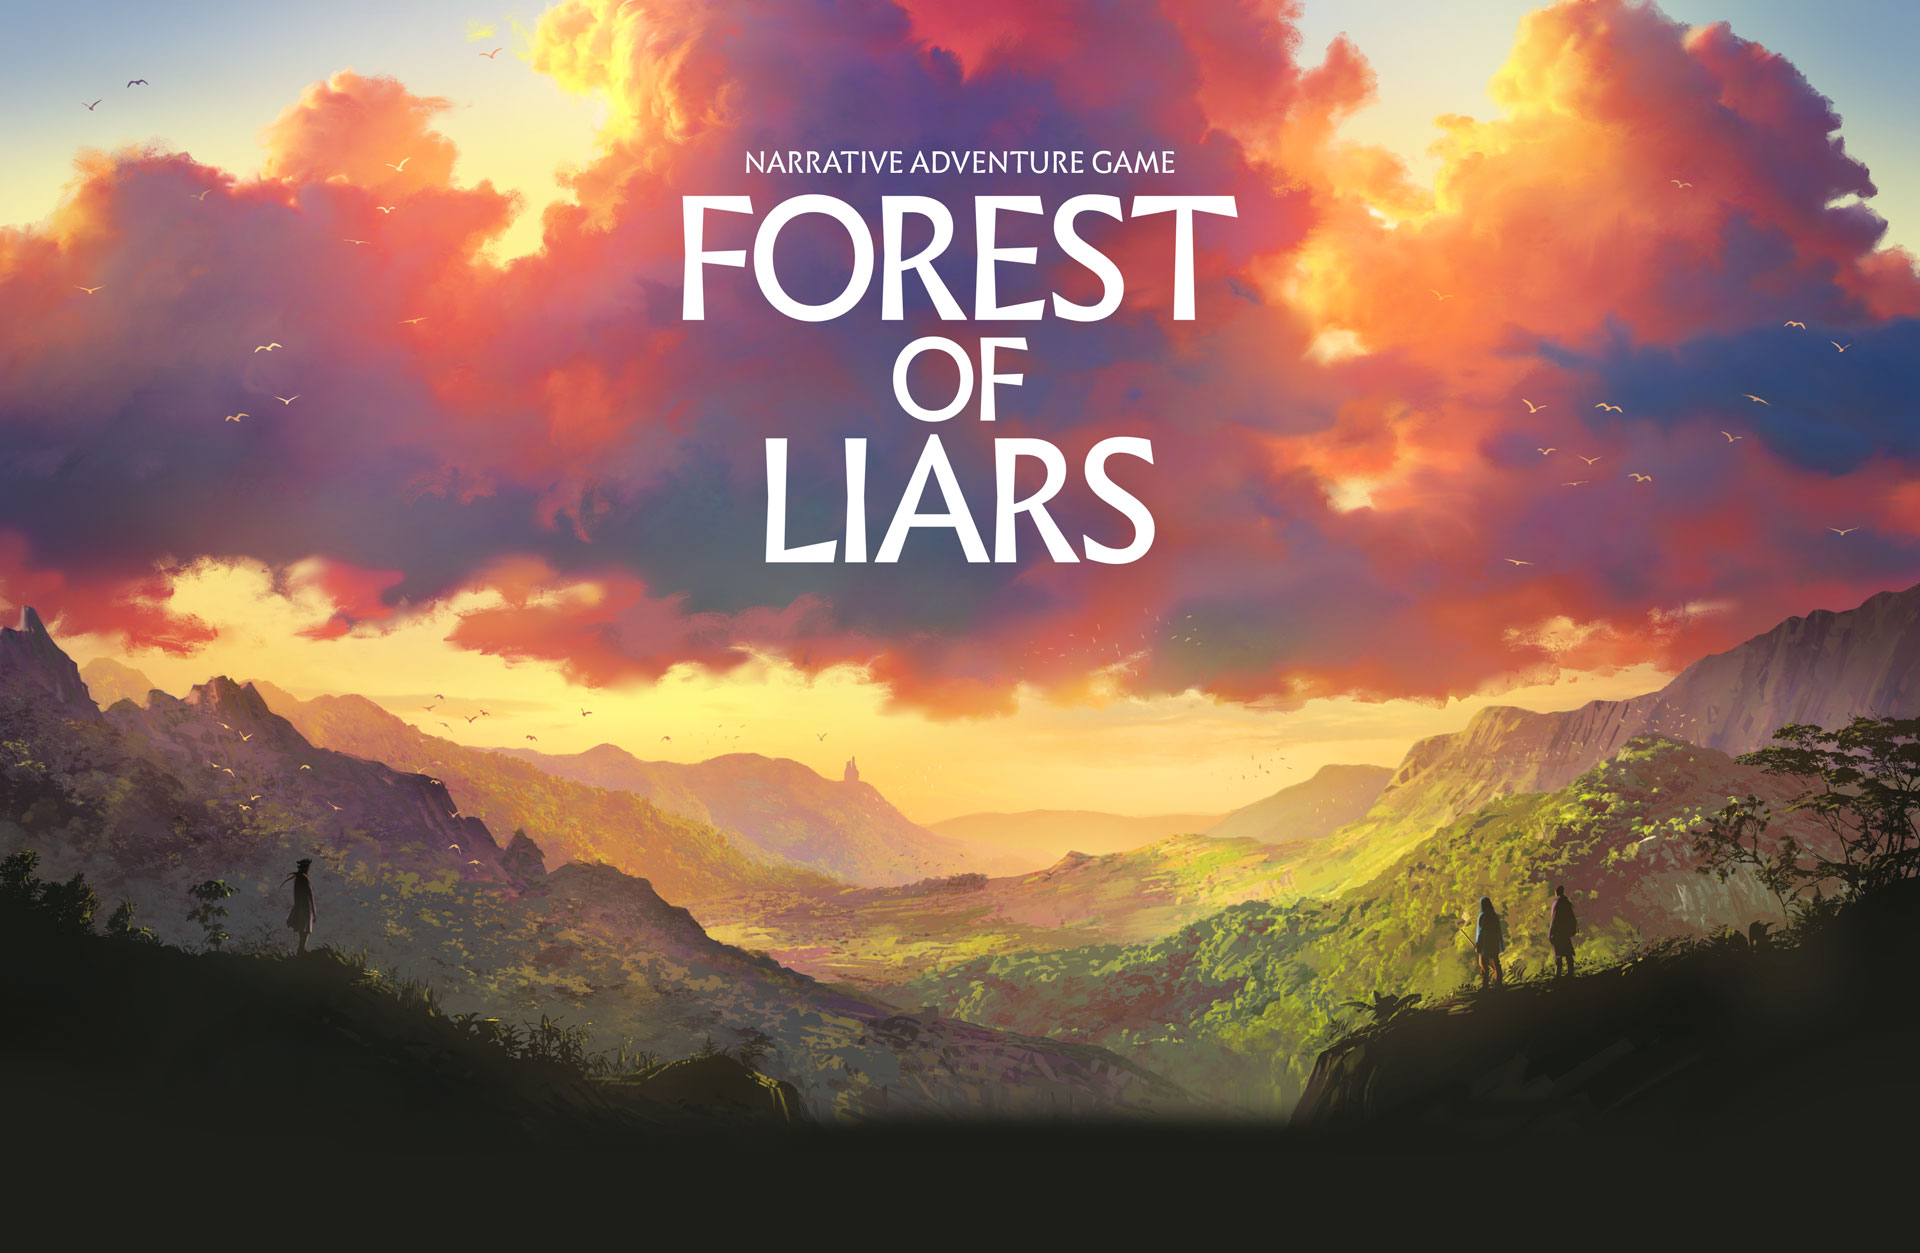
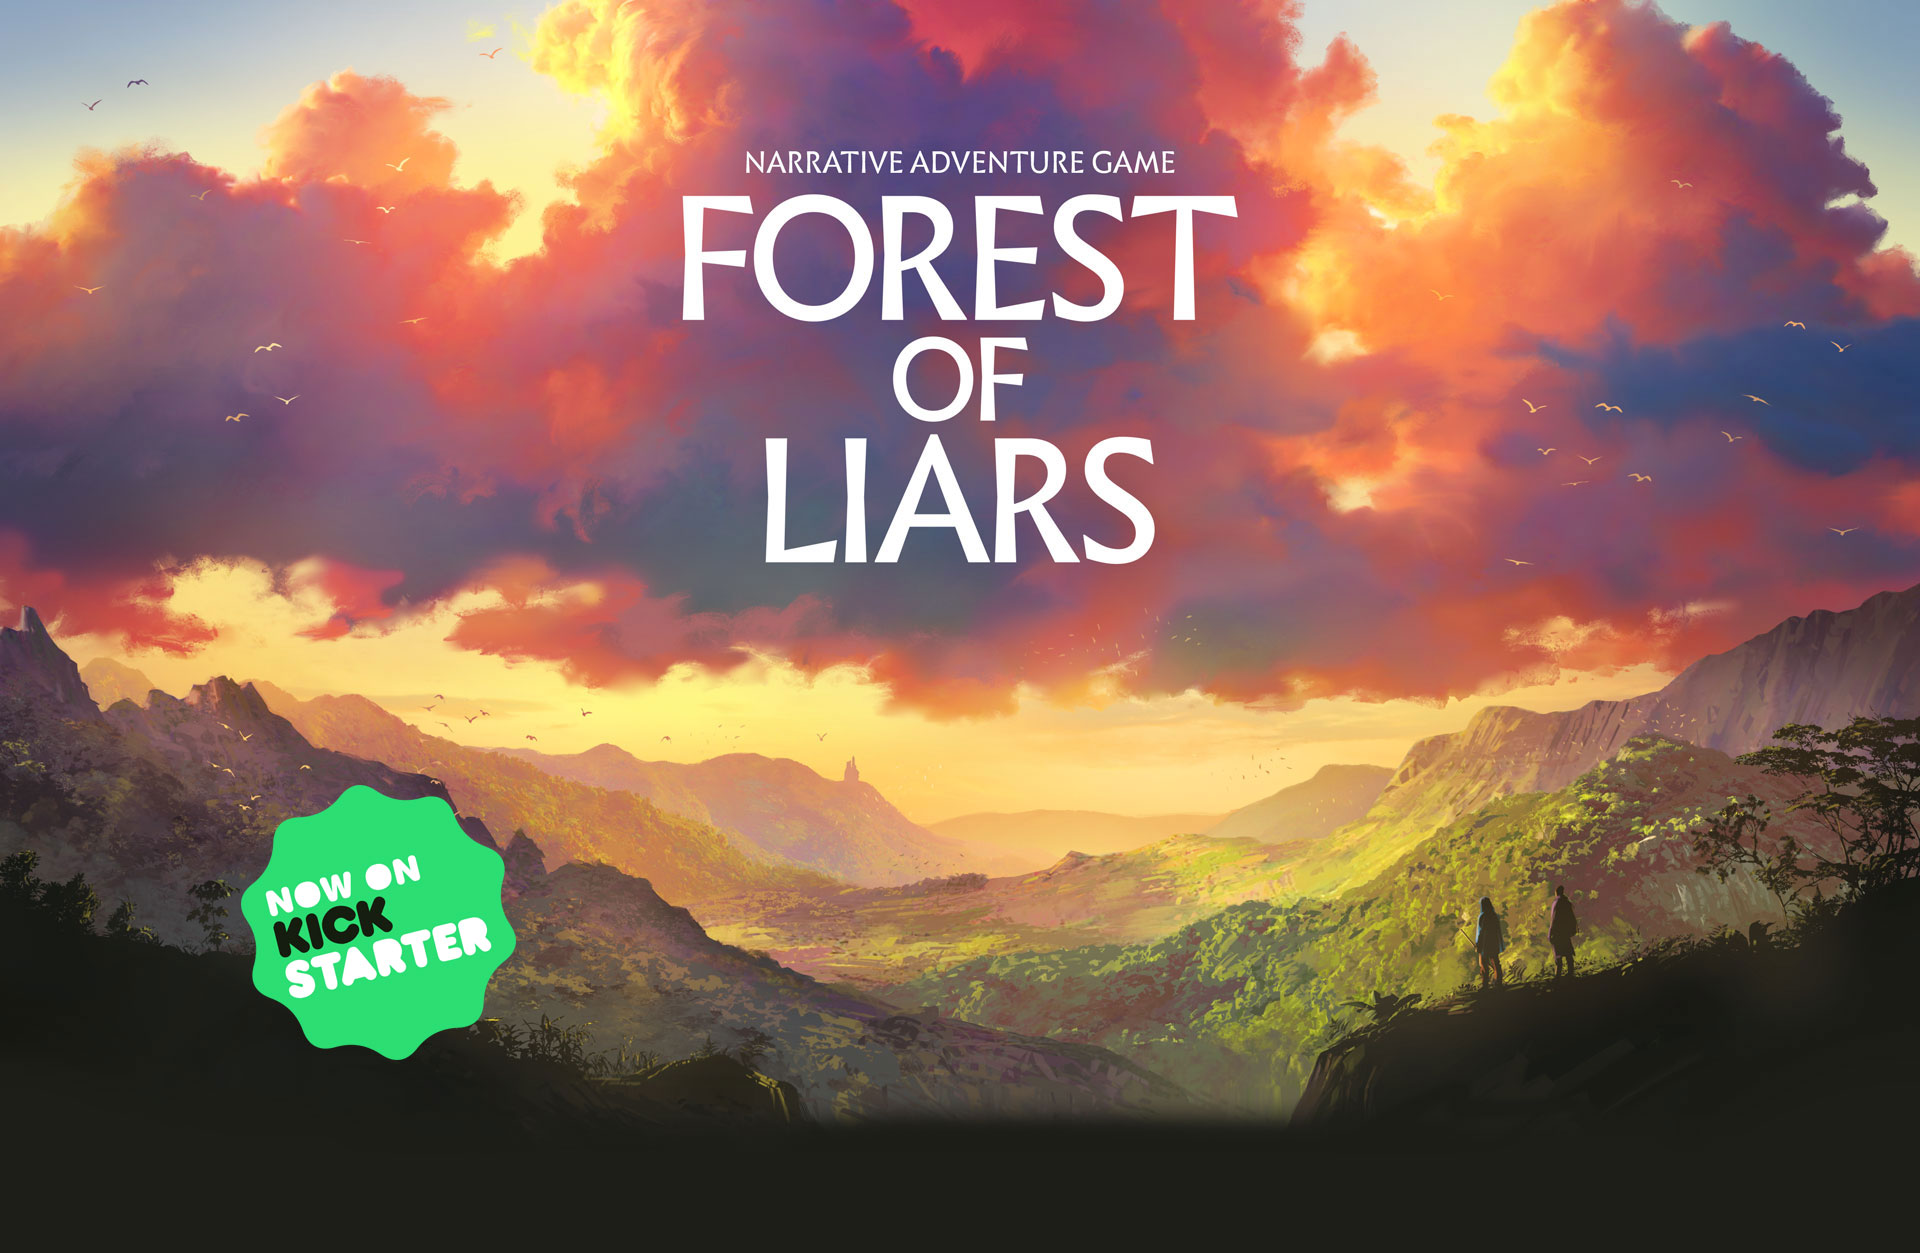
0.5.1
Kickstarter page

Changed region(s): [[0.125, 0.6225, 0.2812, 0.8404]]

diff --git a/index.html b/index.html
@@ -22,42 +22,18 @@
     
     <body>
         <div></div>
-        
-        <script>
-            // Set the date we're counting down to
-            var countDownDate = new Date("Apr 30, 2018 15:37:25").getTime();
 
-            // Update the count down every 1 second
-            var x = setInterval(function() {
-
-              // Get todays date and time
-              var now = new Date().getTime();
-
-              // Find the distance between now an the count down date
-              var distance = countDownDate - now;
-
-              // Time calculations for days, hours, minutes and seconds
-              var days = Math.floor(distance / (1000 * 60 * 60 * 24));
-              var hours = Math.floor((distance % (1000 * 60 * 60 * 24)) / (1000 * 60 * 60));
-              var minutes = Math.floor((distance % (1000 * 60 * 60)) / (1000 * 60));
-              var seconds = Math.floor((distance % (1000 * 60)) / 1000);
-
-              // Display the result in the element with id="demo"
-              document.getElementById("demo").innerHTML = days + " DAYS "
-
-              // If the count down is finished, write some text 
-              if (distance < 0) {
-                clearInterval(x);
-                document.getElementById("demo").innerHTML = "EXPIRED";
-              }
-            }, 1000);
-    </script>
         <div class="top">
             <div class="twitter"><a href="https://twitter.com/UmeshuLovers" target="_blank"><img src="assets/twitter.png" width=100%/></a></div>
             <div class="facebook"><a href="https://www.facebook.com/forestofliars/" target="_blank"><img src="assets/facebook.png" width=100%/></a></div>
         </div>
 
         <div class="container">
+            
+            <div>
+                <div id="kickstarter"><a href="https://www.kickstarter.com/projects/2046612117/forest-of-liars-a-narrative-adventure-game
+" target="_blank"><img src="assets/supportbutton.png" width=45%/></a></div>
+            </div>
             
             <p class="txt-1">
                 The Forest of Liars is a vast, lush labyrinth known for its ethereal beauty, but no one who has
@@ -68,14 +44,6 @@
             <div class="intrinsic-container intrinsic-container-16x9">
                 <iframe src="https://www.youtube.com/embed/D0_lNEcxq2c" frameborder="0" allow="autoplay; encrypted-media" allowfullscreen></iframe>
             </div>
-
-            
-            <div>
-                </br>
-                <div id="kickstarter"><img width="70%" src="assets/head.png"/><div id="demo"></div></div>
-                
-            </div>
-
 
             <p class="txt-2">
                 Forest of Liars is an adventure game that delivers a different experience every time
